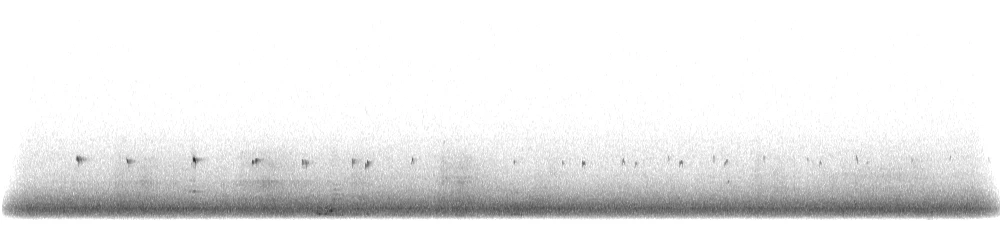
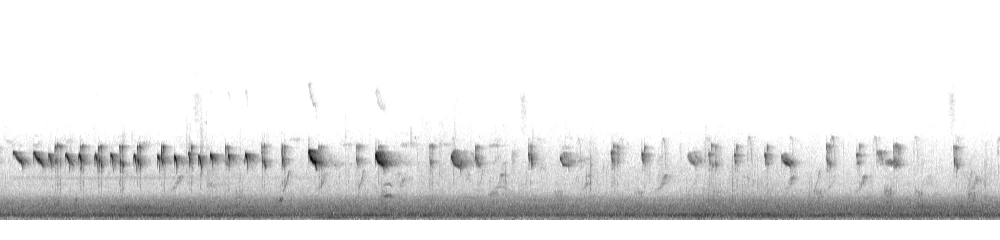
Transfer pending Explorer changes

Changed region(s): [[0.0, 0.5542, 1.0, 0.9333], [0.372, 0.4375, 0.403, 0.4667]]

diff --git a/docs/project-status.md b/docs/project-status.md
@@ -5,7 +5,7 @@ Diese Datei ist die einzige dokumentarische Quelle für aktuelle Zähler und akt
 Sie wird aus den produktiven JSON-Dateien, dem Explorer-Modell und den vorhandenen Assets erzeugt. Historische
 Zahlen in datierten Audit- und Verlaufsdokumenten sind Zeitaufnahmen und kein aktueller Projektstatus.
 
-Report-Datenstand: `2026-07-16T13:57:39.512Z`
+Report-Datenstand: `2026-07-19T07:00:50.765Z`
 
 | Bereich | Anzahl |
 |---|---:|